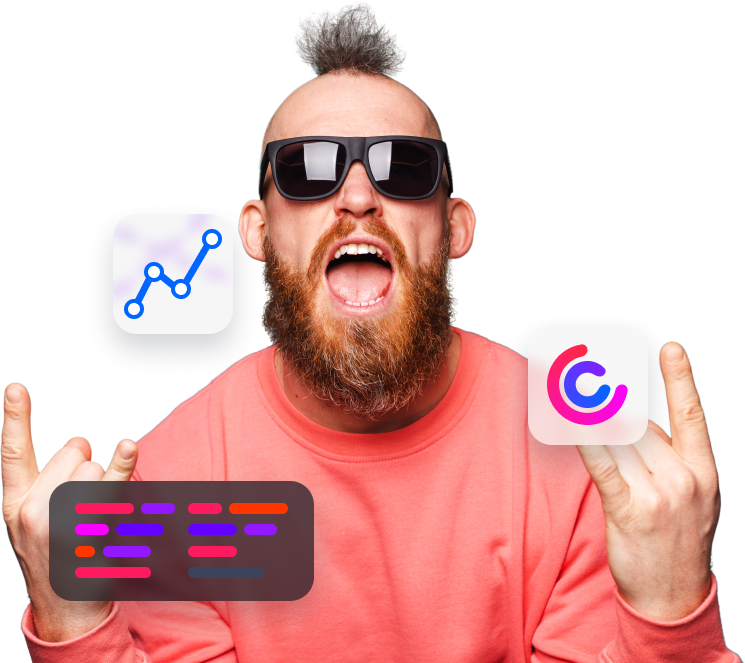
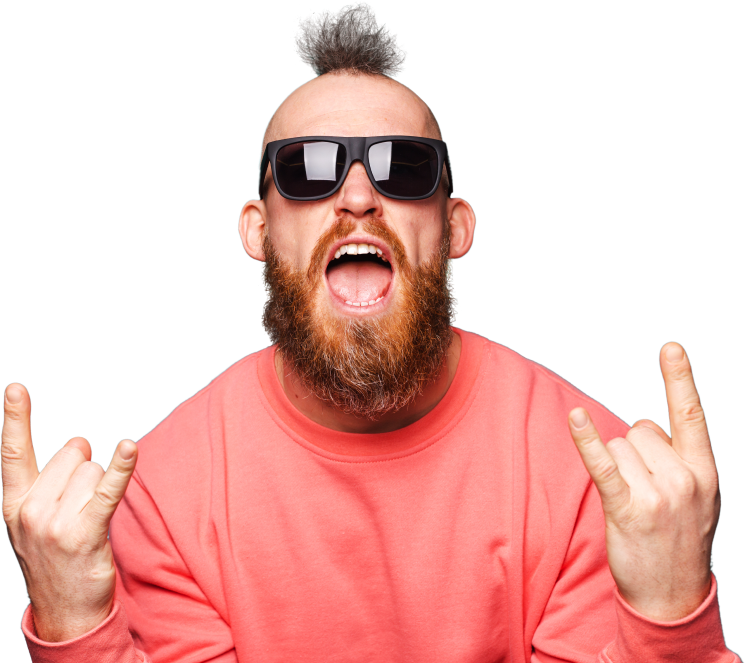
refactor: cria componente de home section use client

diff --git a/src/components/sections/HomeSection.tsx b/src/components/sections/HomeSection.tsx
@@ -1,0 +1,56 @@
+"use client";
+import { Code, PaintBrush, RocketLaunch } from "@phosphor-icons/react";
+import MainButton from "../Button";
+
+export default function HomeSection() {
+  return (
+    <>
+      <div className="container mx-auto rounded-3xl dark:bg-slate-800 bg-white mt-12 shadow-lg grid lg:grid-cols-2">
+        <div className="flex flex-col gap-6 p-10 lg:p-24">
+          <p className="text-main-700 dark:text-white text-1xl xl:text-2xl font-bold">
+            Construindo o futuro
+            <br /> através de design e tecnologia
+          </p>
+          <h1
+            className="text-4xl lg:text-6xl xl:text-8xl font-extrabold text-main-700 dark:text-white"
+            defaultValue="Studio Digital"
+          >
+            Studio<span className="text-main-100">Digital</span>
+          </h1>
+          <p className="text-main-700 dark:text-white text-2xl xl:text-3xl font-bold">
+            Seu sucesso é nossa missão
+          </p>
+          <MainButton title="Entre em contato" onClick={()=>{console.log("oi")}} />
+          <div className="flex items-center gap-4">
+            <span className="flex items-center font-medium text-main-700 dark:text-white">
+              <PaintBrush size={24} weight="duotone" />
+              Design
+            </span>
+            <span className="flex items-center font-medium text-main-700 dark:text-white">
+              <Code size={24} weight="duotone" />
+              Coding
+            </span>
+            <span className="flex items-center font-medium text-main-700 dark:text-white">
+              <RocketLaunch size={24} weight="duotone" />
+              Business
+            </span>
+          </div>
+        </div>
+        <div className="relative hidden lg:flex">
+          <img
+            draggable={false}
+            src="/arrow-line.svg"
+            alt="Linha pontilhada"
+            className="arrow-line-home"
+          />
+          <img
+            draggable={false}
+            src="/man-home.png"
+            alt="Homem gritando"
+            className="man-home"
+          />
+        </div>
+      </div>
+    </>
+  );
+}

diff --git a/src/app/page.tsx b/src/app/page.tsx
@@ -1,5 +1,6 @@
 import MainButton from "@/components/Button";
 import MainNavbar from "@/components/Navbar";
+import HomeSection from "@/components/sections/HomeSection";
 import { PaintBrush } from "@phosphor-icons/react";
 
 export default function Home() {
@@ -7,34 +8,7 @@ export default function Home() {
     <>
       <MainNavbar />
       <main className="p-4">
-        <div className="container mx-auto rounded-3xl dark:bg-slate-800 bg-white mt-12 shadow-lg grid lg:grid-cols-2">
-          <div className="flex flex-col gap-6 p-12 lg:p-24">
-            <p className="text-main-700 dark:text-white text-1xl xl:text-2xl font-bold">
-              Construindo o futuro
-              <br /> através de design e tecnologia
-            </p>
-            <h1 className="text-4xl lg:text-6xl xl:text-8xl font-extrabold text-main-700 dark:text-white">
-              StudioDigital
-            </h1>
-            <p className="text-main-700 dark:text-white text-2xl xl:text-3xl font-bold">
-              Seu sucesso é nossa missão
-            </p>
-            <MainButton title="Entre em contato" />
-            <div className="flex items-center gap-4">
-              <span className="font-medium text-main-700 dark:text-white">Design</span>
-              <span className="font-medium text-main-700 dark:text-white">Coding</span>
-              <span className="font-medium text-main-700 dark:text-white">Business</span>
-            </div>
-          </div>
-          <div className="relative hidden lg:flex">
-            <img
-              draggable={false}
-              src="/man-home.png"
-              alt="Homem gritando"
-              className="man-home"
-            />
-          </div>
-        </div>
+        <HomeSection />
         <div className="container mx-auto p-4">
           <p>
             Lorem ipsum dolor sit amet consectetur adipisicing elit. Blanditiis

diff --git a/src/components/Button.tsx b/src/components/Button.tsx
@@ -3,11 +3,16 @@ import { Button } from "@nextui-org/react";
 
 type buttonData = {
   title: string;
+  onClick: () => void;
 };
 
-export default function MainButton({ title }: buttonData) {
+export default function MainButton({ title, onClick }: buttonData) {
   return (
-    <Button size="lg" className="bg-gradient-to-r from-main-400 to-main-200 text-white font-bold w-fit">
+    <Button
+      size="lg"
+      className="bg-gradient-to-r from-main-400 via-main-300 to-main-100 shadow-lg shadow-main-300/30 text-white font-bold w-fit"
+      onClick={onClick}
+    >
       {title}
     </Button>
   );

diff --git a/src/styles/globals.scss b/src/styles/globals.scss
@@ -12,3 +12,11 @@ body {
   transform: translateX(50%);
   width: 90%;
 }
+
+.arrow-line-home {
+  position: absolute;
+  height: 85%;
+  top: 50%;
+  left: -30%;
+  transform: translateY(-50%);
+}
